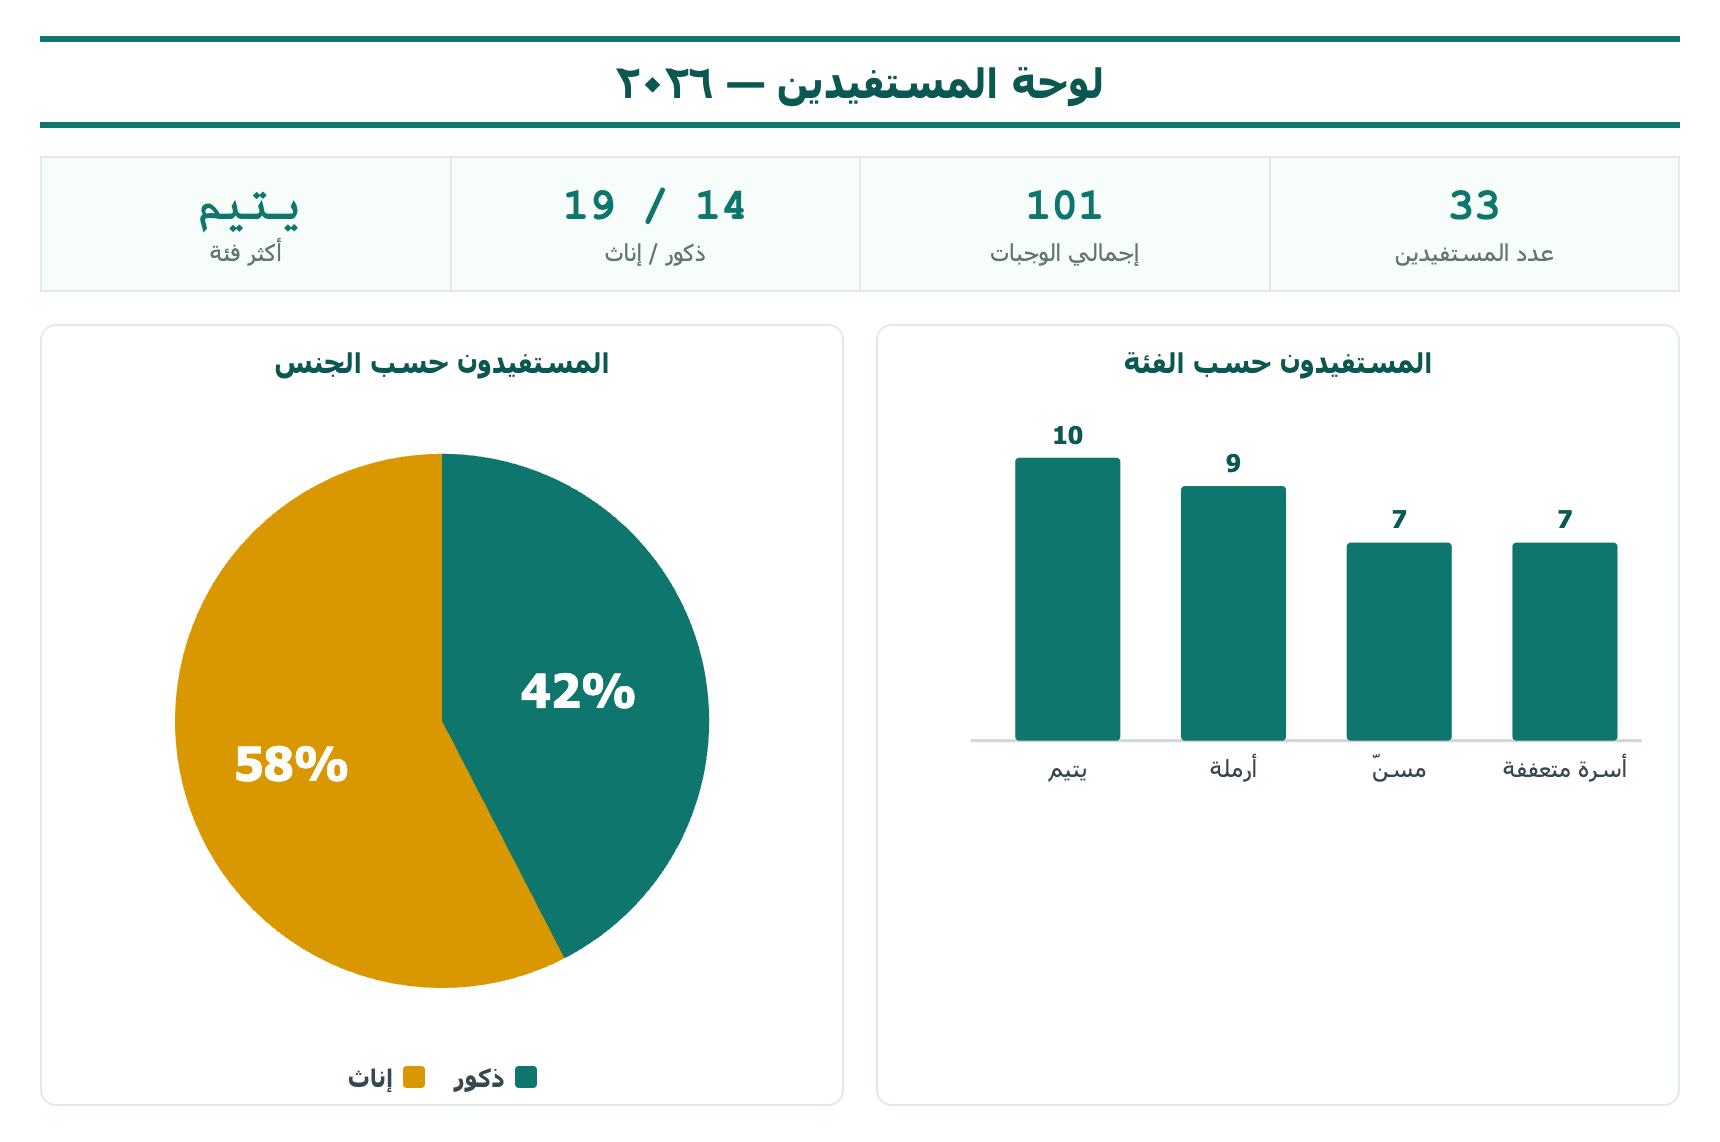
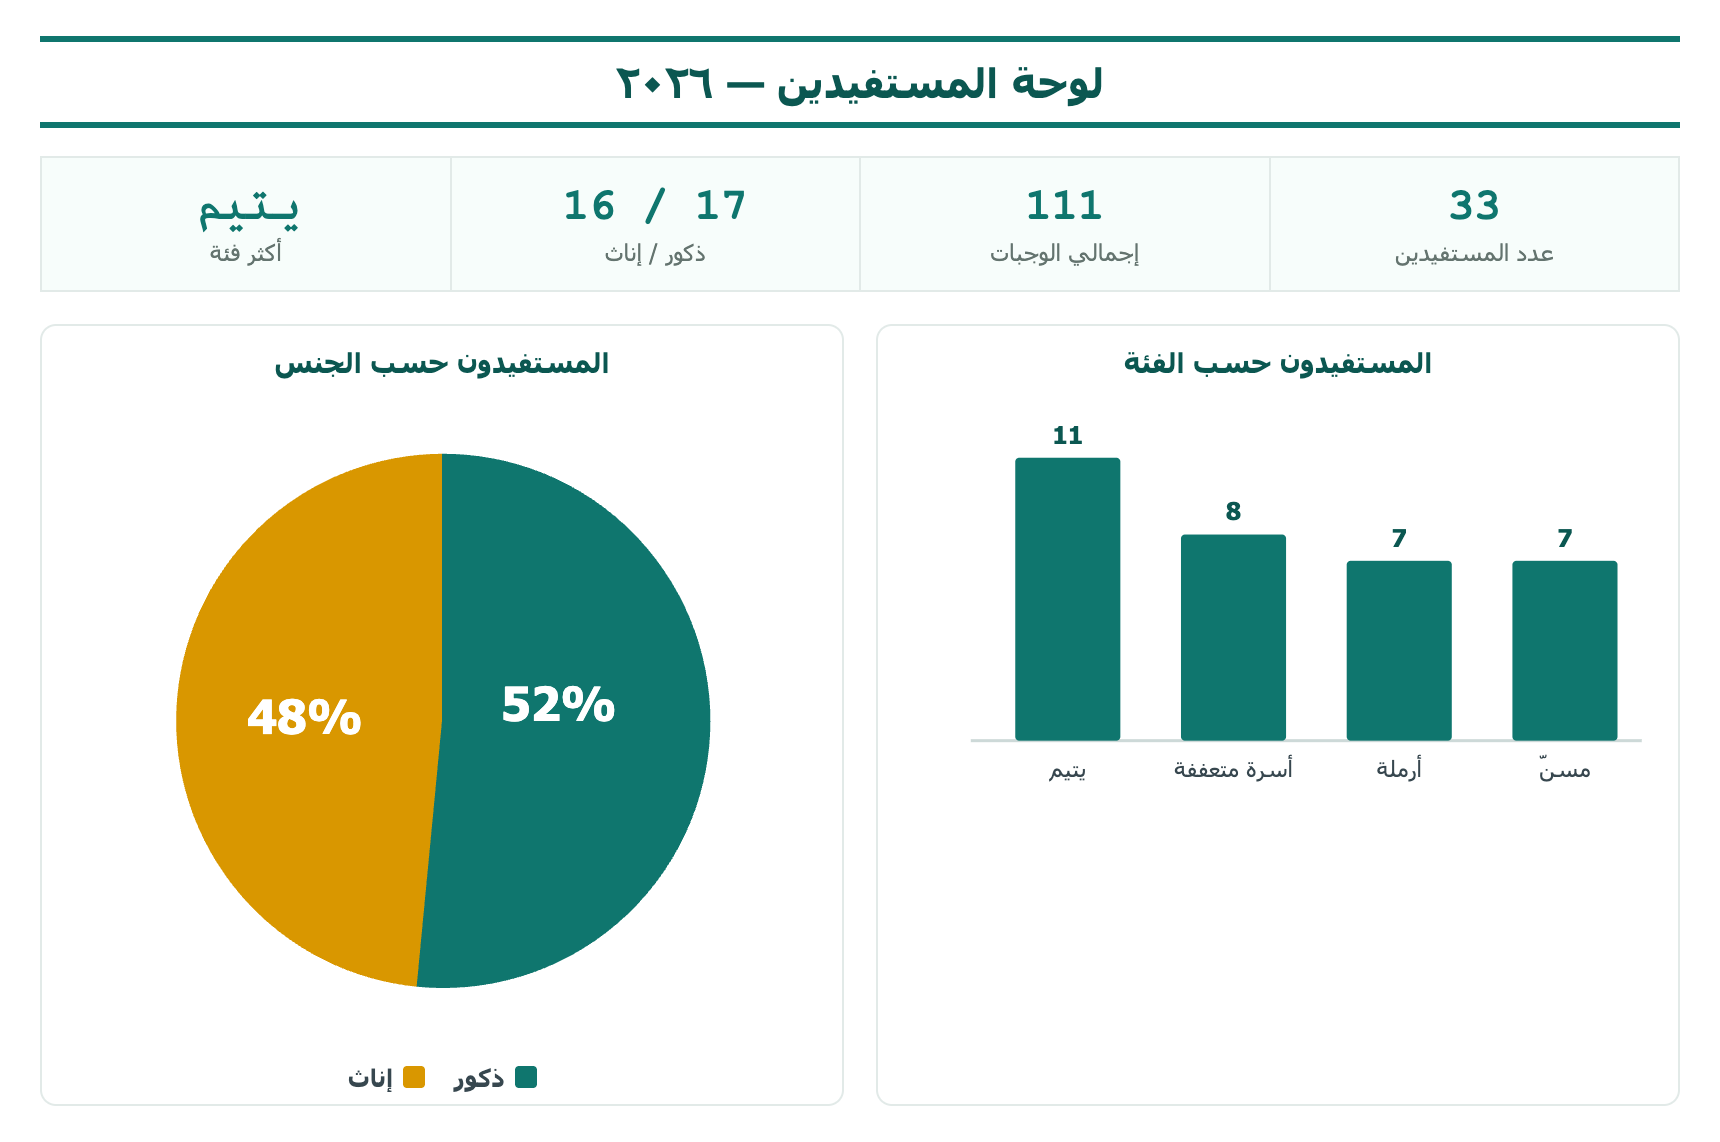
تحديث الأسبوع ٣: مثال «سنة التسجيل» بدل مواطن/مقيم + عمود رقم الملف

diff --git a/week3/index.html b/week3/index.html
@@ -243,7 +243,7 @@ ol.steps li::before{content:counter(s);position:absolute;right:10px;top:8px;widt
 
 <div class="jmap">
   <h3>🗺️ خريطة الحقيبة — مرحلتان</h3>
-  <div class="jstage"><div class="bub">١</div><div class="tx"><b>نرتّب السجلّ</b><br><span>المسافات · نوع الهوية · فصل الفئة · توحيد الجوال · بطاقة المستفيد · رابط واتساب</span></div></div>
+  <div class="jstage"><div class="bub">١</div><div class="tx"><b>نرتّب السجلّ</b><br><span>المسافات · سنة التسجيل · فصل الفئة · توحيد الجوال · بطاقة المستفيد · رابط واتساب</span></div></div>
   <div class="jstage"><div class="bub">٢</div><div class="tx"><b>لوحة المستفيدين</b><br><span>حوّله جدولاً · تقرير الفئات · لوحة (بطاقات + مخططات)</span></div></div>
 </div>
 <div class="intro" style="margin-top:0"><p class="exp" style="margin:0"><b>📌 الفكرة:</b> سجلّ مستفيدي الجمعية كثير ما يجيك <b>غير مرتّب</b>: مسافات في الأسماء، الفئة وعدد الوجبات في خانة وحدة، أرقام جوال بصيغ مختلفة، صفوف مكرّرة. هنا نرتّبه خطوة خطوة بدوال النص، ونطلّع منه <b>لوحة مستفيدين</b> أنيقة، وحتى زرّ <b>واتساب</b> نراسل فيه المستفيد بضغطة.</p></div>
@@ -287,11 +287,11 @@ ol.steps li::before{content:counter(s);position:absolute;right:10px;top:8px;widt
   <div class="goal">قبل ما نصلح، نشوف وش غير مرتّب. افتح ورقة «السجلّ» وتأمّلها.</div>
   <p class="exp">هذي عيّنة من سجلّ المستفيدين. لاحظ المشاكل الملوّنة بالأحمر — راح نرتّبها وحدة وحدة.</p>
   <div class="gwrap"><div class="grid"><table>
-    <thead><tr><th>اسم المستفيد</th><th>رقم الهوية</th><th>الجنس</th><th>رقم الجوال</th><th>الفئة-عدد الوجبات</th><th>ملاحظات</th></tr></thead>
+    <thead><tr><th>رقم الملف</th><th>اسم المستفيد</th><th>رقم الهوية</th><th>الجنس</th><th>رقم الجوال</th><th>الفئة-عدد الوجبات</th><th>ملاحظات</th></tr></thead>
     <tbody>
-      <tr><td class="bad"><span class="sp">␣␣</span>عبدالله الحربي</td><td>1023456789</td><td>ذكر</td><td class="bad">050 123 4567</td><td class="bad">يتيم-3</td><td>بحاجة ماسة</td></tr>
-      <tr><td class="bad">نوال القحطاني<span class="sp">␣</span></td><td>2098765432</td><td>أنثى</td><td class="bad">0552 22 3344</td><td class="bad">أرملة-5</td><td>منتظمة</td></tr>
-      <tr><td>سعد المطيري</td><td>1055667788</td><td>ذكر</td><td class="bad">053 1112233</td><td class="bad">مسنّ-2</td><td>كبير سن</td></tr>
+      <tr><td>2024-105</td><td class="bad"><span class="sp">␣␣</span>عبدالله الحربي</td><td>1023456789</td><td>ذكر</td><td class="bad">050 123 4567</td><td class="bad">يتيم-3</td><td>بحاجة ماسة</td></tr>
+      <tr><td>2023-088</td><td class="bad">نوال القحطاني<span class="sp">␣</span></td><td>2098765432</td><td>أنثى</td><td class="bad">0552 22 3344</td><td class="bad">أرملة-5</td><td>منتظمة</td></tr>
+      <tr><td>2025-012</td><td>سعد المطيري</td><td>1055667788</td><td>ذكر</td><td class="bad">053 1112233</td><td class="bad">مسنّ-2</td><td>كبير سن</td></tr>
     </tbody></table></div></div>
   <ol class="steps">
     <li><b>مسافات زائدة</b> قبل/بعد اسم المستفيد (المربّع البرتقالي <span class="sp">␣</span>).</li>
@@ -310,7 +310,7 @@ ol.steps li::before{content:counter(s);position:absolute;right:10px;top:8px;widt
   <div class="goal">نشيل المسافات الزائدة قبل/بعد الاسم بدالة وحدة: <span class="f" dir="ltr">TRIM</span>.</div>
   <p class="exp">المسافات المخفية تخرّب الفرز والبحث والمطابقة. <span class="f" dir="ltr">TRIM</span> تشيل كل مسافة زائدة وتترك مسافة وحدة بين الكلمات.</p>
   <ol class="steps">
-    <li>في عمود فاضي بجنب الاسم، اكتب في أول خلية: <span class="f" dir="ltr">=TRIM(A2)</span> ثم <span class="f" dir="ltr">Enter</span>.</li>
+    <li>في عمود فاضي بجنب الاسم (عمود B)، اكتب في أول خلية: <span class="f" dir="ltr">=TRIM(B2)</span> ثم <span class="f" dir="ltr">Enter</span>.</li>
     <li>اسحب الخلية من الزاوية لتحت لباقي الصفوف.</li>
   </ol>
   <div class="ba">
@@ -327,21 +327,21 @@ ol.steps li::before{content:counter(s);position:absolute;right:10px;top:8px;widt
 <!-- 3 -->
 <section class="lesson">
   <div class="num">المحطة ٣</div>
-  <div class="lt">نوع الهوية ← دالة LEFT</div>
-  <div class="goal">نعرف نوع المستفيد من أول رقم في الهوية بدالة <span class="f" dir="ltr">LEFT</span>: <b>1</b> مواطن، <b>2</b> مقيم.</div>
-  <p class="exp"><span class="f" dir="ltr">LEFT</span> تأخذ عدد أحرف من <b>يسار</b> النص (وعكسها <span class="f" dir="ltr">RIGHT</span> من اليمين). أول رقم في الهوية السعودية يحدّد النوع، فنستخرجه بسهولة.</p>
+  <div class="lt">سنة التسجيل ← دالة LEFT</div>
+  <div class="goal">نستخرج سنة تسجيل المستفيد من «رقم الملف» بدالة <span class="f" dir="ltr">LEFT</span> — مفيدة لمعرفة المستفيدين القدامى من الجدد.</div>
+  <p class="exp"><span class="f" dir="ltr">LEFT</span> تأخذ عدد أحرف من <b>يسار</b> النص (وعكسها <span class="f" dir="ltr">RIGHT</span> من اليمين). رقم الملف يبدأ بالسنة (مثل <span class="f" dir="ltr">2024-105</span>)، فنأخذ أول ٤ خانات.</p>
   <ol class="steps">
-    <li>في عمود فاضي اكتب: <span class="f" dir="ltr">=LEFT(B2,1)</span> ثم <span class="f" dir="ltr">Enter</span>، واسحب لتحت.</li>
+    <li>في عمود فاضي اكتب: <span class="f" dir="ltr">=LEFT(A2,4)</span> ثم <span class="f" dir="ltr">Enter</span>، واسحب لتحت.</li>
   </ol>
   <div class="ba">
-    <div class="col"><div class="lbl">رقم الهوية</div><div class="grid"><table><tbody>
-      <tr><td>1023456789</td></tr><tr><td>2098765432</td></tr></tbody></table></div></div>
+    <div class="col"><div class="lbl">رقم الملف</div><div class="grid"><table><tbody>
+      <tr><td>2024-105</td></tr><tr><td>2023-088</td></tr></tbody></table></div></div>
     <div class="arw">⟸</div>
-    <div class="col"><div class="lbl">بعد <span class="f" dir="ltr">=LEFT(B2,1)</span></div><div class="grid"><table><tbody>
-      <tr><td class="good">1</td></tr><tr><td class="good">2</td></tr></tbody></table></div></div>
+    <div class="col"><div class="lbl">بعد <span class="f" dir="ltr">=LEFT(A2,4)</span></div><div class="grid"><table><tbody>
+      <tr><td class="good">2024</td></tr><tr><td class="good">2023</td></tr></tbody></table></div></div>
   </div>
-  <div class="see"><b>👀 ماذا سترى:</b> عمود فيه أول رقم: 1 (مواطن) أو 2 (مقيم).</div>
-  <div class="apply"><b>طبّقها:</b> <span class="f" dir="ltr">LEFT</span> و<span class="f" dir="ltr">RIGHT</span> تفيد لاستخراج أكواد، مفاتيح مدن، أو بدايات/نهايات أي نص.</div>
+  <div class="see"><b>👀 ماذا سترى:</b> عمود فيه سنة التسجيل لكل مستفيد: 2024، 2023…</div>
+  <div class="apply"><b>طبّقها:</b> <span class="f" dir="ltr">LEFT</span> و<span class="f" dir="ltr">RIGHT</span> تفيد لاستخراج بدايات/نهايات أي كود (سنة، رمز فرع، تصنيف).</div>
 </section>
 
 <!-- 4 -->
@@ -401,7 +401,7 @@ ol.steps li::before{content:counter(s);position:absolute;right:10px;top:8px;widt
   <div class="goal">نجمع الاسم والفئة في خانة وحدة بعلامة <span class="f" dir="ltr">&amp;</span> لعرض أنيق.</div>
   <p class="exp">العلامة <span class="f" dir="ltr">&amp;</span> تلصق النصوص. نضيف بينها نصّاً ثابتاً بين علامتي تنصيص (مثل قوسين) عشان يطلع شكل مرتّب.</p>
   <ol class="steps">
-    <li>في عمود فاضي اكتب: <span class="f" dir="ltr">=A2&" ("&E2&")"</span> ثم <span class="f" dir="ltr">Enter</span>، واسحب لتحت.</li>
+    <li>في عمود فاضي اكتب: <span class="f" dir="ltr">=B2&" ("&F2&")"</span> ثم <span class="f" dir="ltr">Enter</span>، واسحب لتحت.</li>
   </ol>
   <div class="ba">
     <div class="col"><div class="lbl">المكوّنات</div><div class="grid"><table>
@@ -440,9 +440,9 @@ ol.steps li::before{content:counter(s);position:absolute;right:10px;top:8px;widt
   <div class="goal">نصنع خلية قابلة للضغط تفتح واتساب على رقم المستفيد برسالة جاهزة — مفيدة جداً لمتابعة المستفيدين.</div>
   <p class="exp">دالة <span class="f" dir="ltr">HYPERLINK</span> تسوّي رابطاً قابلاً للضغط. نبني رابط واتساب <span class="f" dir="ltr">wa.me</span> بدمج رقم الجوال مع رسالة. ونستخدم <span class="f" dir="ltr">RIGHT(الجوال,9)</span> ليأخذ آخر ٩ أرقام (يشيل الصفر) ونضيف قبلها رمز السعودية <span class="f" dir="ltr">966</span>.</p>
   <ol class="steps">
-    <li>في عمود فاضي اكتب هذي الصيغة (D = عمود الجوال):</li>
+    <li>في عمود فاضي اكتب هذي الصيغة (E = عمود الجوال):</li>
   </ol>
-  <div style="text-align:center;margin:6px 0 12px"><span class="f" dir="ltr">=HYPERLINK("https://wa.me/966"&RIGHT(D2,9)&"?text=السلام عليكم","💬 راسل")</span></div>
+  <div style="text-align:center;margin:6px 0 12px"><span class="f" dir="ltr">=HYPERLINK("https://wa.me/966"&RIGHT(E2,9)&"?text=السلام عليكم","💬 راسل")</span></div>
   <div class="ba">
     <div class="col"><div class="lbl">رقم الجوال</div><div class="grid"><table><tbody>
       <tr><td>0501234567</td></tr></tbody></table></div></div>
@@ -451,7 +451,7 @@ ol.steps li::before{content:counter(s);position:absolute;right:10px;top:8px;widt
       <tr><td class="good">💬 راسل</td></tr></tbody></table></div></div>
   </div>
   <div class="see"><b>👀 ماذا سترى:</b> خلية مكتوب فيها «💬 راسل» — تضغطها فيفتح واتساب على رقم المستفيد ورسالة «السلام عليكم» جاهزة.</div>
-  <div class="warn"><b>⚠️ شرح سريع:</b> <span class="f" dir="ltr">RIGHT(D2,9)</span> تأخذ آخر ٩ أرقام من الجوال (بدون الصفر)، و<span class="f" dir="ltr">966</span> رمز السعودية، و<span class="f" dir="ltr">text=</span> الرسالة الجاهزة (غيّرها لو حبيت).</div>
+  <div class="warn"><b>⚠️ شرح سريع:</b> <span class="f" dir="ltr">RIGHT(E2,9)</span> تأخذ آخر ٩ أرقام من الجوال (بدون الصفر)، و<span class="f" dir="ltr">966</span> رمز السعودية، و<span class="f" dir="ltr">text=</span> الرسالة الجاهزة (غيّرها لو حبيت).</div>
   <div class="apply"><b>طبّقها:</b> نفس الفكرة لأي رابط: موقع، خريطة موقع المستفيد، أو بريد — كله بـ <span class="f" dir="ltr">HYPERLINK</span>.</div>
 </section>
 <div class="stage"><div class="no">٢</div><div><b>المرحلة الثانية — لوحة المستفيدين</b><span>سجلّنا صار مرتّباً، نطلّع منه لوحة جميلة</span></div></div>
@@ -485,13 +485,13 @@ ol.steps li::before{content:counter(s);position:absolute;right:10px;top:8px;widt
   <div class="gwrap"><div class="pvt"><table>
     <thead><tr><th>الفئة</th><th>عدد المستفيدين</th></tr></thead>
     <tbody>
-      <tr><td>يتيم</td><td class="n sel">10</td></tr>
-      <tr><td>أرملة</td><td class="n">9</td></tr>
+      <tr><td>يتيم</td><td class="n sel">11</td></tr>
+      <tr><td>أسرة متعففة</td><td class="n">8</td></tr>
+      <tr><td>أرملة</td><td class="n">7</td></tr>
       <tr><td>مسنّ</td><td class="n">7</td></tr>
-      <tr><td>أسرة متعففة</td><td class="n">7</td></tr>
       <tr class="g"><td>الإجمالي</td><td class="n">33</td></tr>
     </tbody></table></div></div>
-  <div class="see"><b>👀 ماذا سترى:</b> «يتيم» الأعلى (10) والإجمالي 33، وبجانبه مخطط أعمدة.</div>
+  <div class="see"><b>👀 ماذا سترى:</b> «يتيم» الأعلى (11) والإجمالي 33، وبجانبه مخطط أعمدة.</div>
   <div class="apply"><b>طبّقها:</b> كرّر نفس الوصفة بحقل «الجنس» لو تبي تقريراً للذكور والإناث.</div>
 </section>
 
@@ -503,8 +503,8 @@ ol.steps li::before{content:counter(s);position:absolute;right:10px;top:8px;widt
   <p class="exp">مبروك! أخذت سجلّاً غير مرتّب، رتّبته بالكامل، أضفت زرّ واتساب، وطلّعت منه لوحة — هذا شغل محترف يخدم الجمعية.</p>
   <div class="kpis">
     <div class="kpi"><div class="ic">👥</div><div class="v">33</div><div class="l">عدد المستفيدين</div></div>
-    <div class="kpi"><div class="ic">🍽️</div><div class="v">101</div><div class="l">إجمالي الوجبات</div></div>
-    <div class="kpi"><div class="ic">⚖️</div><div class="v">14 / 19</div><div class="l">ذكور / إناث</div></div>
+    <div class="kpi"><div class="ic">🍽️</div><div class="v">111</div><div class="l">إجمالي الوجبات</div></div>
+    <div class="kpi"><div class="ic">⚖️</div><div class="v">17 / 16</div><div class="l">ذكور / إناث</div></div>
     <div class="kpi"><div class="ic">🏆</div><div class="v">يتيم</div><div class="l">أكثر فئة</div></div>
   </div>
   <ol class="steps">
@@ -538,22 +538,22 @@ ol.steps li::before{content:counter(s);position:absolute;right:10px;top:8px;widt
       <div class="cgc">
         <div class="cgn">LEFT / RIGHT</div>
         <div class="cgw">يأخذ عدد أحرف من اليسار / اليمين.</div>
-        <div class="cge"><span class="f" dir="ltr">=LEFT(B2,1)</span></div>
+        <div class="cge"><span class="f" dir="ltr">=LEFT(A2,4)</span></div>
       </div>
       <div class="cgc">
         <div class="cgn">MID</div>
         <div class="cgw">يأخذ أحرفاً من وسط النص (من موضع، بعدد).</div>
-        <div class="cge"><span class="f" dir="ltr">=MID(B2,2,3)</span></div>
+        <div class="cge"><span class="f" dir="ltr">=MID(A2,6,3)</span></div>
       </div>
       <div class="cgc">
         <div class="cgn">&amp; (الدمج)</div>
         <div class="cgw">يلصق نصوصاً مع بعض، وبينها نص ثابت.</div>
-        <div class="cge"><span class="f" dir="ltr">=A2&" ("&E2&")"</span></div>
+        <div class="cge"><span class="f" dir="ltr">=B2&" ("&F2&")"</span></div>
       </div>
       <div class="cgc">
         <div class="cgn">LEN</div>
         <div class="cgw">يعدّ كم حرفاً في الخانة (مفيد للتأكد من طول الهوية/الجوال).</div>
-        <div class="cge"><span class="f" dir="ltr">=LEN(D2)</span></div>
+        <div class="cge"><span class="f" dir="ltr">=LEN(E2)</span></div>
       </div>
       <div class="cgc">
         <div class="cgn">HYPERLINK</div>